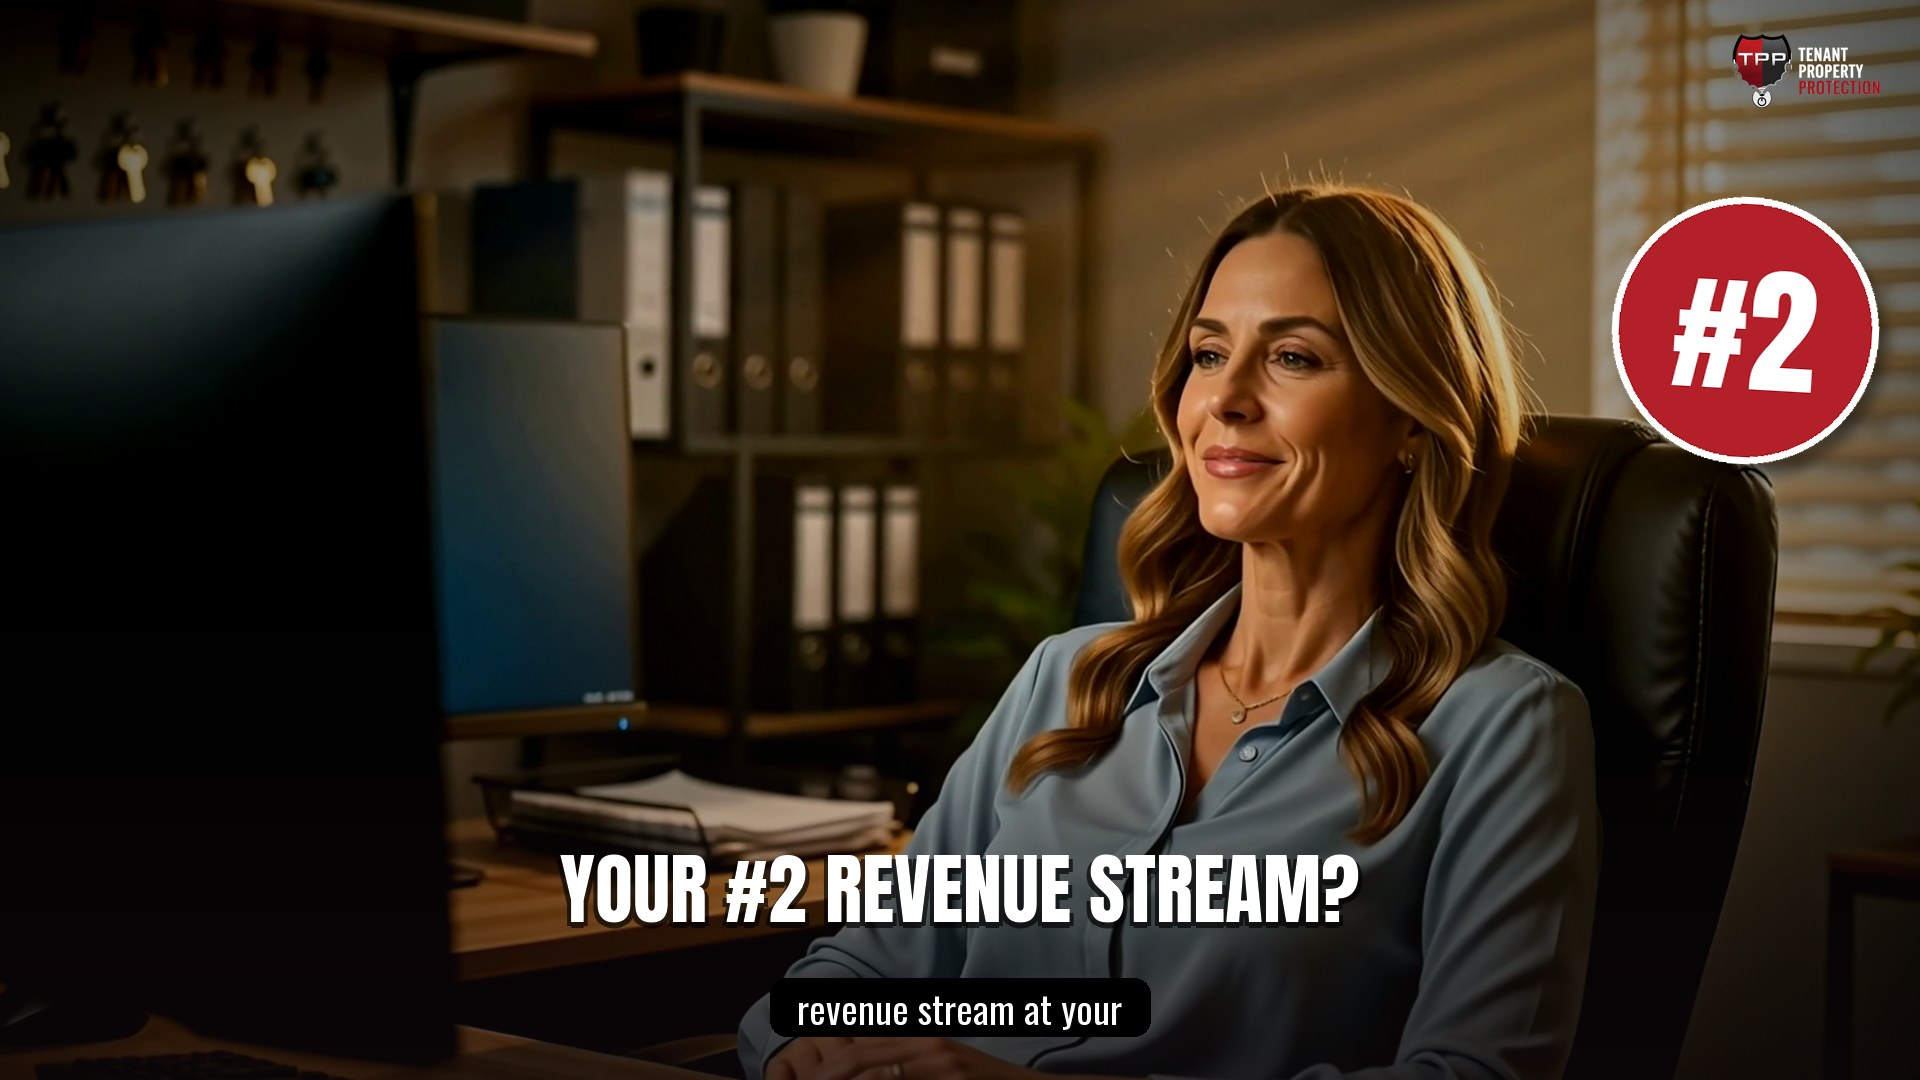
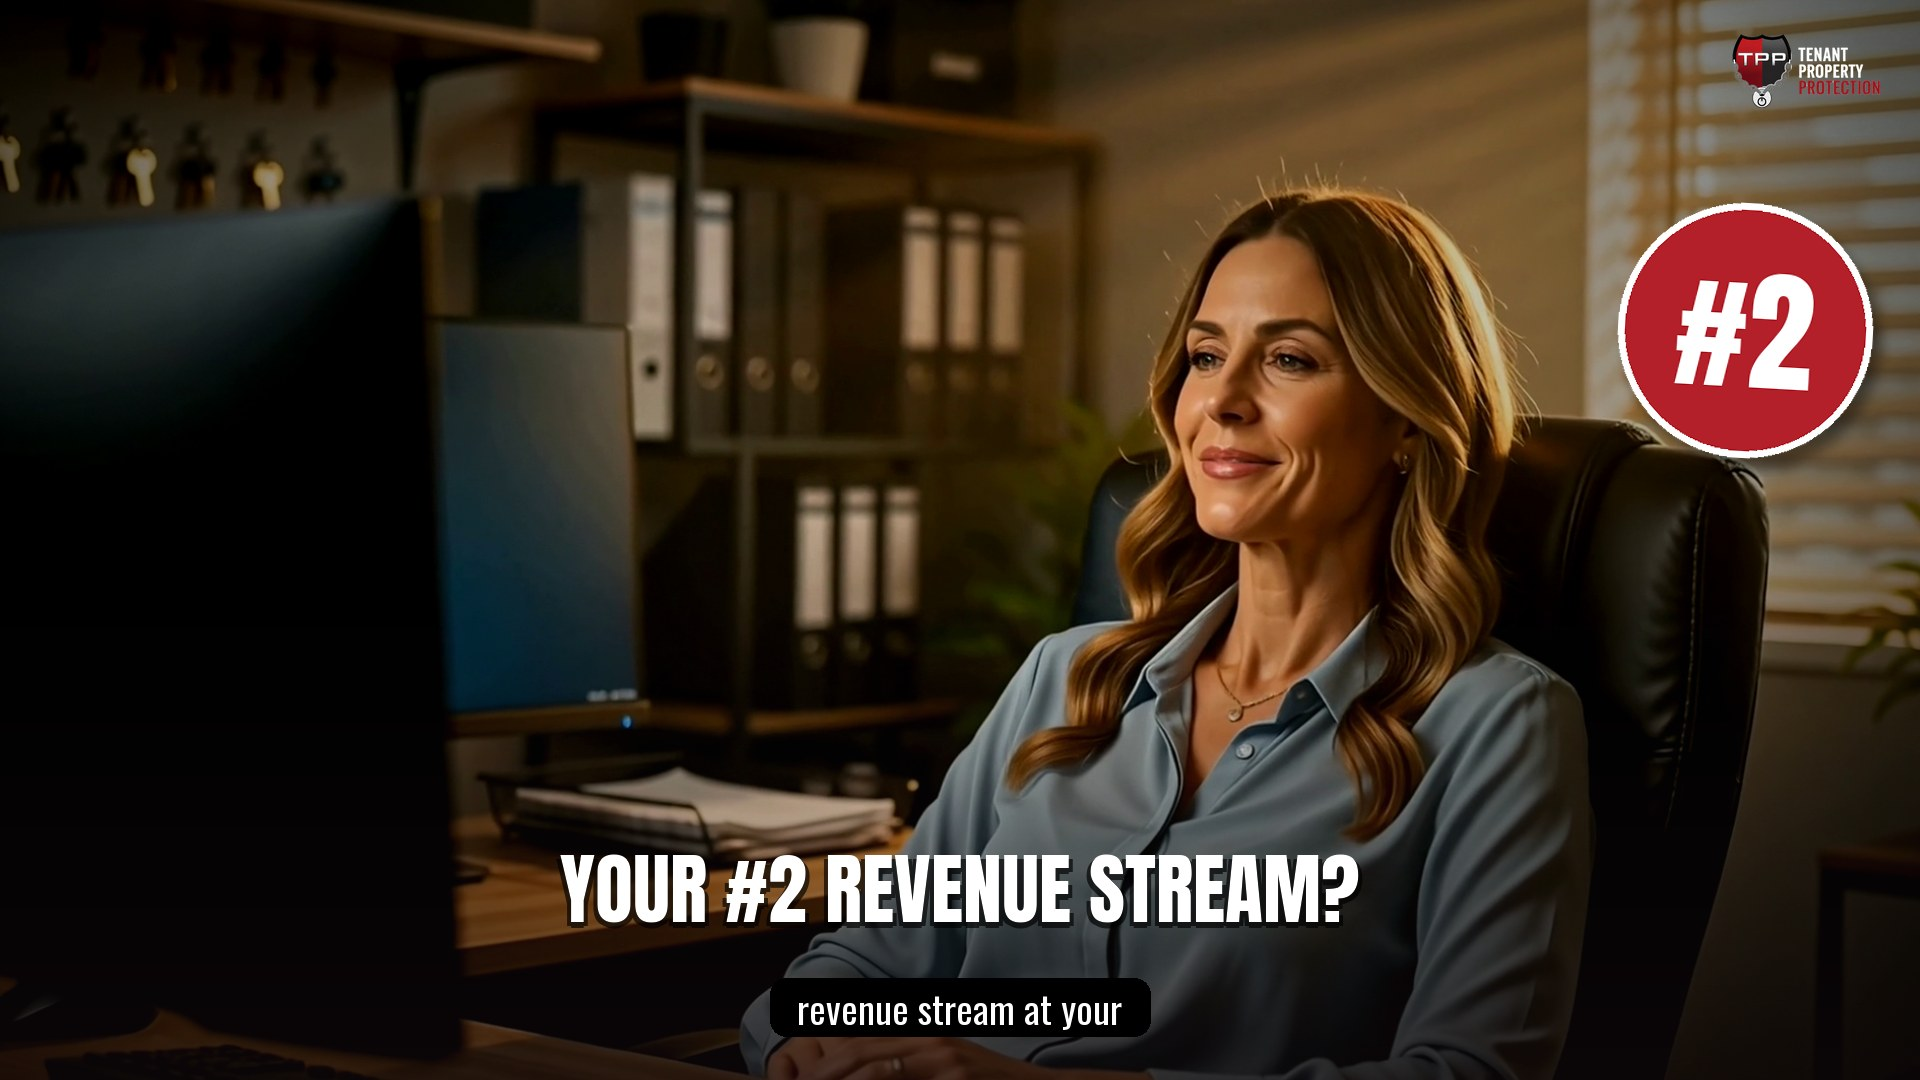
Pages: two spots (stack, revenue)

diff --git a/index.html b/index.html
@@ -25,7 +25,7 @@ main{max-width:1180px;margin:0 auto;padding:28px 16px}
 footer{text-align:center;color:var(--mut);font-size:13px;padding:30px}
 </style></head>
 <body><header><img src="https://teond1090.github.io/tpp-secure-media-videos/media/logo.png" alt="TPP Secure"><p>Protect your tenants. Grow your revenue. One partner, the whole TPP stack.</p></header>
-<main><h1>TPP Secure Media Videos</h1><p class='meta'>Three 16:9 HD spots (under 60 seconds, 1920×1080 MP4 H.264) for the General Session screens, YouTube, LinkedIn and Facebook, each with its own share link that unfurls with a thumbnail.</p><div class='grid'><div class="card">
+<main><h1>TPP Secure Media Videos</h1><p class='meta'>16:9 HD spots (under 60 seconds, 1920×1080 MP4 H.264) for the General Session screens, YouTube, LinkedIn and Facebook, each with its own share link that unfurls with a thumbnail.</p><div class='grid'><div class="card">
 <div class="vwrap" style="background:#000 url('https://teond1090.github.io/tpp-secure-media-videos/media/stack.jpg') center/cover no-repeat"><video controls playsinline preload="none" poster="https://teond1090.github.io/tpp-secure-media-videos/media/stack.jpg" src="https://teond1090.github.io/tpp-secure-media-videos/media/stack.mp4"></video></div>
 <div class="body"><h2>The Whole Stack</h2><div class="meta">57 s &middot; 16:9 HD (1920×1080, MP4 H.264) for event screens, YouTube, LinkedIn and Facebook</div>
 <a class="btn" href="https://teond1090.github.io/tpp-secure-media-videos/media/stack.mp4" download>Download 16:9 HD (1920×1080)</a><a class="btn alt" href="https://teond1090.github.io/tpp-secure-media-videos/stack/">Share link</a>
